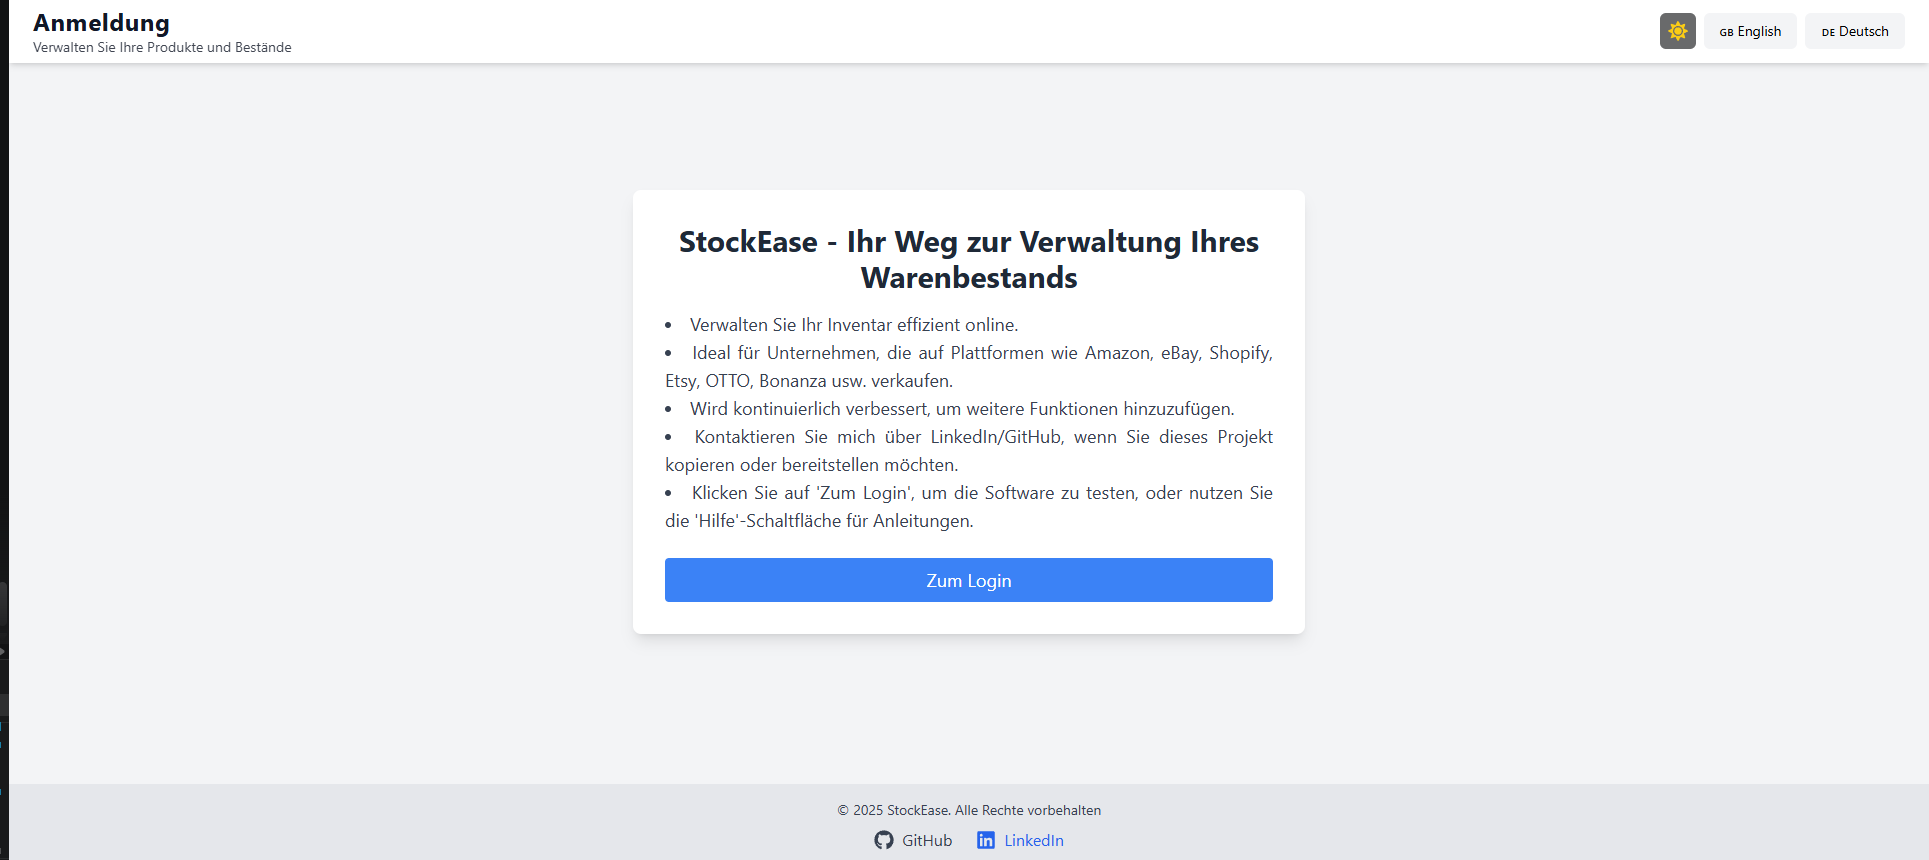
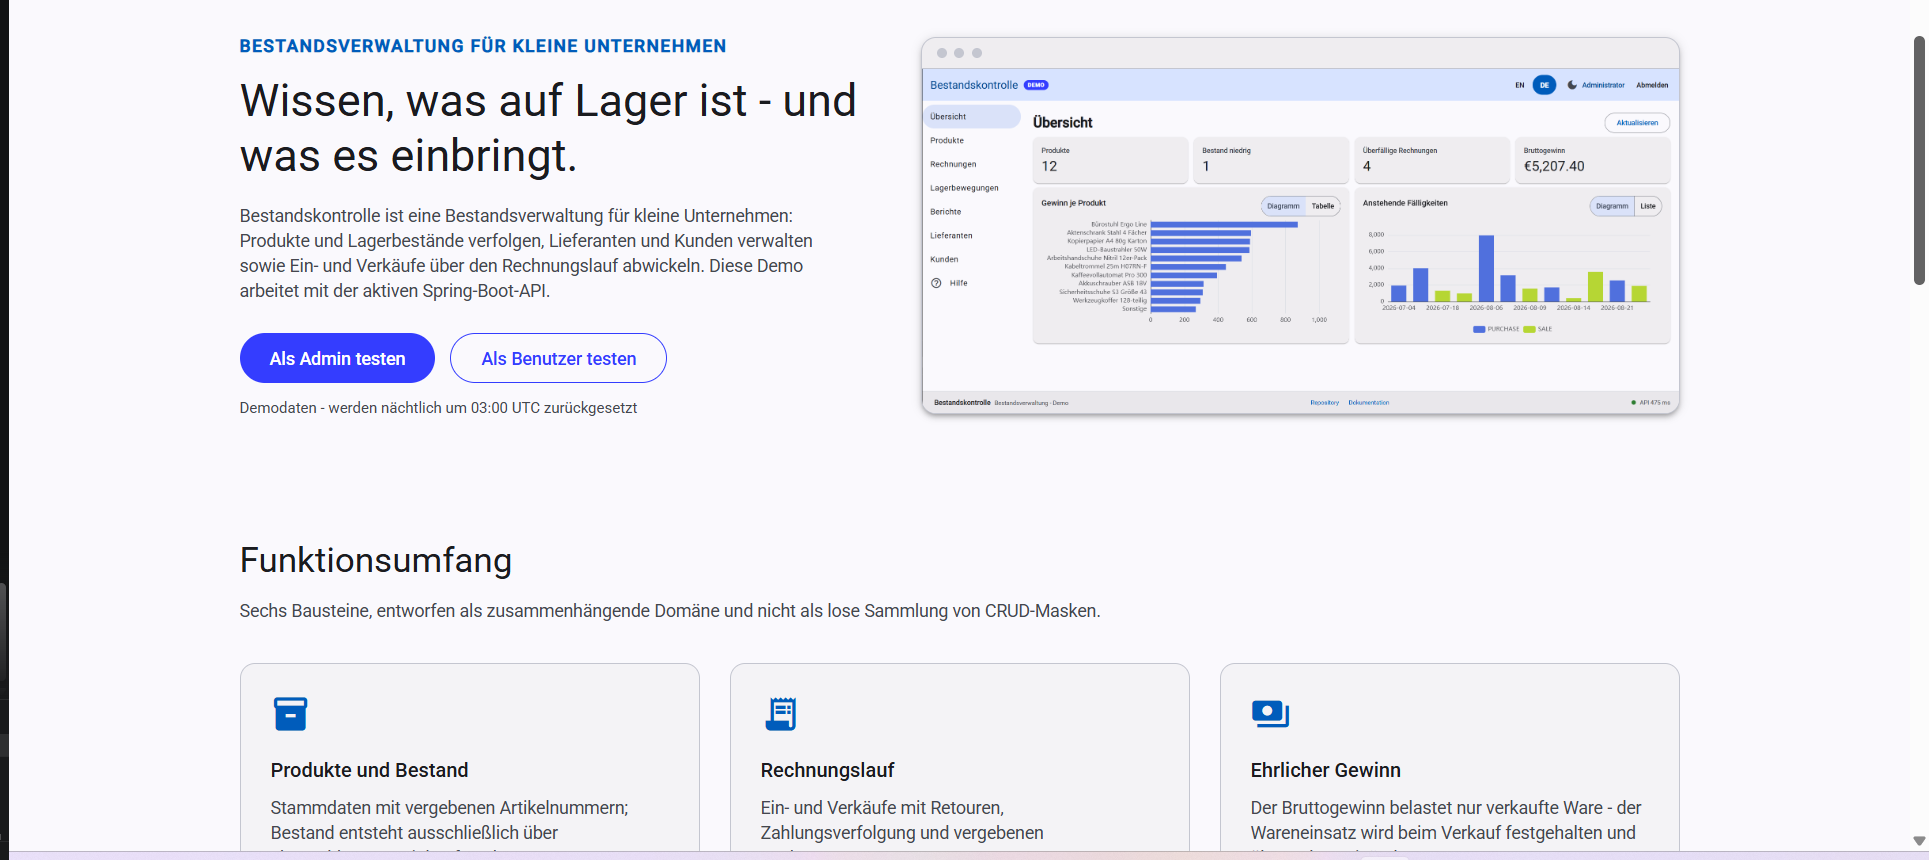
feat(projects): add KI-Maintenance Assistant card, rename Bestandskontrolle, restructure layout (#48)
* chore(build): declare Node 24 engine requirement

Adds an engines field pinning Node 24.x.

Vercel honours engines for its build runtime, and GitHub Actions already
pins Node 24 through .github/actions/node-setup. Declaring it here aligns
the Vercel build with CI -- both now build on the same major -- and clears
the Node 20 deprecation warning Vercel was emitting.

* feat(projects): replace StockEase card images, add Maintenance Assistant images

Overwrites the four StockEase preview images with captures of the renamed
Bestandskontrolle product, and adds four new images for the KI-Maintenance
Assistant card that the next commit introduces. Both sets carry all four
theme/language variants (dark/light x en/de).

Every file verified at 1929x860 -- the aspect ratio ProjectCard renders --
both in the source directory and again after copying into public/projects/.
The eight are the only changes here; the data entries that point at the new
maintenance-assistant-* paths and the corrected image set land in commit 3.

* feat(projects): update project data — new card, renamed product, corrected links

Three entries now, in a new order:

1. KI-Maintenance Assistant (NEW) -- a RAG assistant over a plant's own
   maintenance protocols. Java 21 / Spring Boot backend with pgvector,
   Angular 22 frontend, Keycloak IAM, EU-only inference via IONOS.
2. Bestandskontrolle (was StockEase) -- the product is renamed; the
   repository stays StockEase and the summaries say so, so the repo link
[…]

diff --git a/src/data/projects.config.js b/src/data/projects.config.js
@@ -35,6 +35,81 @@
 /** @type {ProjectConfig[]} */
 const projects = [
   {
+    slug: 'maintenance-assistant',
+    displayName: 'KI-Maintenance Assistant',
+    summaryEn:
+      'A retrieval-augmented (RAG) assistant that answers maintenance questions from a plant\'s own protocols. Every answer cites the source protocol, and answers without a grounded source are explicitly labelled. Role-filtered answers server-side, cross-language retrieval (a German question can cite an English protocol), and EU-only processing via the IONOS AI Model Hub in Berlin. Java 21 / Spring Boot backend with pgvector in PostgreSQL, Angular 22 frontend, Keycloak IAM, rendered end-to-end tests with Playwright.',
+    summaryDe:
+      'Ein Retrieval-Augmented-Generation-(RAG)-Assistent, der Wartungsfragen aus den Protokollen der eigenen Anlage beantwortet. Jede Antwort nennt das Quellprotokoll, und Antworten ohne belegte Quelle werden ausdrücklich gekennzeichnet. Serverseitig rollengefilterte Antworten, sprachübergreifende Suche (eine deutsche Frage kann ein englisches Protokoll zitieren) und ausschließlich EU-Verarbeitung über den IONOS AI Model Hub in Berlin. Java-21-/Spring-Boot-Backend mit pgvector in PostgreSQL, Angular-22-Frontend, Keycloak-IAM, gerenderte End-to-End-Tests mit Playwright.',
+    tech: [
+      'Java 21',
+      'Spring Boot 4',
+      'RAG / pgvector',
+      'IONOS AI (EU)',
+      'Keycloak / OAuth2 PKCE',
+      'PostgreSQL',
+      'Flyway',
+      'Angular 22',
+      'TypeScript',
+      'Playwright',
+      'Testcontainers',
+      'GitHub Actions',
+    ],
+    images: {
+      dark: { en: '/projects/maintenance-assistant-dark-en.png', de: '/projects/maintenance-assistant-dark-de.png' },
+      light: { en: '/projects/maintenance-assistant-light-en.png', de: '/projects/maintenance-assistant-light-de.png' },
+    },
+    repoUrl: 'https://github.com/Keglev/maintenance-assistant',
+    repoUrlSecondary: null,
+    liveUrl: 'https://maintenance.smartsupply.com.de/',
+    docsUrl: 'https://keglev.github.io/maintenance-assistant/',
+    apiUrl: 'https://maintenance.smartsupply.com.de/swagger-ui/index.html',
+    docLinks: [
+      { titleEn: 'Architecture (arc42)', titleDe: 'Architektur (arc42)', url: 'https://keglev.github.io/maintenance-assistant/architecture/' },
+      { titleEn: 'Decision records (ADRs)', titleDe: 'Entscheidungsdokumente (ADRs)', url: 'https://keglev.github.io/maintenance-assistant/adr/' },
+      { titleEn: 'Frontend API reference', titleDe: 'Frontend-API-Referenz', url: 'https://keglev.github.io/maintenance-assistant/frontend/api-docs/index.html' },
+    ],
+    featured: true,
+  },
+  {
+    slug: 'stockease',
+    displayName: 'Bestandskontrolle',
+    summaryEn:
+      'Full merchandise-cycle inventory management for small businesses (repository: StockEase): products, suppliers and customers, purchase and sales invoices, an append-only stock-movement ledger, audit trail and reporting with CSV export. A modular monolith (Spring Modulith) whose module boundaries are verified on every build; stock is booked event-driven inside the invoice-closing transaction, so an overselling close rolls back entirely. Angular 22 frontend, bilingual EN/DE at runtime; 619 backend tests against real PostgreSQL via Testcontainers, 916 frontend tests at 99% statement coverage.',
+    summaryDe:
+      'Bestandsverwaltung über den vollständigen Warenzyklus für kleine Unternehmen (Repository: StockEase): Produkte, Lieferanten und Kunden, Ein- und Verkaufsrechnungen, ein Append-only-Lagerbewegungsjournal, Änderungshistorie und Berichte mit CSV-Export. Ein modularer Monolith (Spring Modulith), dessen Modulgrenzen bei jedem Build geprüft werden; Lagerbewegungen werden ereignisgesteuert innerhalb der Rechnungsabschluss-Transaktion gebucht — ein Abschluss über Bestand rollt vollständig zurück. Angular-22-Frontend, zweisprachig DE/EN zur Laufzeit; 619 Backend-Tests gegen echtes PostgreSQL via Testcontainers, 916 Frontend-Tests mit 99 % Statement-Coverage.',
+    tech: [
+      'Java 21',
+      'Spring Boot 4',
+      'Spring Modulith',
+      'Spring Security / JWT',
+      'PostgreSQL',
+      'Flyway',
+      'Testcontainers',
+      'Angular 22',
+      'TypeScript',
+      'Angular Material',
+      'Vitest',
+      'Docker',
+      'GitHub Actions',
+    ],
+    images: {
+      dark: { en: '/projects/stockease-dark-en.png', de: '/projects/stockease-dark-de.png' },
+      light: { en: '/projects/stockease-light-en.png', de: '/projects/stockease-light-de.png' },
+    },
+    repoUrl: 'https://github.com/Keglev/stockease',
+    repoUrlSecondary: null,
+    liveUrl: 'https://bestandskontrolle.vercel.app/',
+    docsUrl: 'https://keglev.github.io/stockease/',
+    apiUrl: 'https://keglev.github.io/stockease/backend/api/index.html',
+    docLinks: [
+      { titleEn: 'Architecture (arc42)', titleDe: 'Architektur (arc42)', url: 'https://keglev.github.io/stockease/backend/architecture/overview.html' },
+      { titleEn: 'Decision records (39 ADRs)', titleDe: 'Entscheidungsdokumente (39 ADRs)', url: 'https://keglev.github.io/stockease/decisions/index.html' },
+      { titleEn: 'Frontend API reference', titleDe: 'Frontend-API-Referenz', url: 'https://keglev.github.io/stockease/frontend/api/index.html' },
+    ],
+    featured: true,
+  },
+  {
     slug: 'smartsupplypro',
     displayName: 'SmartSupplyPro',
     summaryEn:
@@ -65,44 +140,8 @@ const projects = [
     docsUrl: 'https://keglev.github.io/inventory-service/',
     apiUrl: 'https://keglev.github.io/inventory-service/backend/api/index.html',
     docLinks: [
-      { titleEn: 'Architecture overview', titleDe: 'Architektur-Überblick', url: 'https://keglev.github.io/inventory-service/backend/architecture/overview.html' },
+      { titleEn: 'Architecture (arc42)', titleDe: 'Architektur (arc42)', url: 'https://keglev.github.io/inventory-service/backend/architecture/overview.html' },
       { titleEn: 'Backend test coverage', titleDe: 'Backend-Testabdeckung', url: 'https://keglev.github.io/inventory-service/backend/coverage/index.html' },
-    ],
-    featured: true,
-  },
-  {
-    slug: 'stockease',
-    displayName: 'StockEase',
-    summaryEn:
-      'A full-stack inventory management tool for SMEs: a JWT-secured Spring Boot CRUD backend with PostgreSQL, inventory and supplier views, and CSV export for BI tools (Power BI, Tableau), paired with a React + TypeScript frontend. Serves as my reference project for documentation and test-coverage standards.',
-    summaryDe:
-      'Ein Full-Stack-Bestandsmanagement-Tool für KMU: ein JWT-gesichertes Spring-Boot-CRUD-Backend mit PostgreSQL, Bestands- und Lieferantenanzeige sowie CSV-Export für BI-Tools (Power BI, Tableau), kombiniert mit einem React-+-TypeScript-Frontend. Dient als mein Referenzprojekt für Dokumentations- und Testabdeckungsstandards.',
-    tech: [
-      'Java',
-      'Spring Boot',
-      'Spring Security',
-      'JWT',
-      'PostgreSQL',
-      'Hibernate / JPA',
-      'Maven',
-      'React',
-      'TypeScript',
-      'Tailwind CSS',
-      'Vite',
-    ],
-    images: {
-      dark: { en: '/projects/stockease-dark-en.png', de: '/projects/stockease-dark-de.png' },
-      light: { en: '/projects/stockease-light-en.png', de: '/projects/stockease-light-de.png' },
-    },
-    repoUrl: 'https://github.com/Keglev/stockease',
-    repoUrlSecondary: 'https://github.com/Keglev/frontend',
-    liveUrl: 'https://stockeasefrontend.vercel.app',
-    docsUrl: 'https://keglev.github.io/stockease/',
-    apiUrl: 'https://keglev.github.io/stockease/api-docs.html',
-    docLinks: [
-      { titleEn: 'Architecture & security', titleDe: 'Architektur & Sicherheit', url: 'https://keglev.github.io/stockease/architecture/security.html' },
-      { titleEn: 'Test coverage', titleDe: 'Testabdeckung', url: 'https://keglev.github.io/stockease/coverage/index.html' },
-      { titleEn: 'Frontend documentation', titleDe: 'Frontend-Dokumentation', url: 'https://keglev.github.io/frontend/' },
     ],
     featured: true,
   },

diff --git a/src/components/Projects/Projects.css b/src/components/Projects/Projects.css
@@ -28,6 +28,20 @@
   gap: 2rem;
 }
 
+/* --- Two-plus-one layout (Projects section only; Legal keeps the base grid) ---
+   Desktop: two equal columns; the last card spans both columns and is
+   centered at single-column width. Collapses with the existing mobile
+   media query, which already forces one column. */
+.project-grid--two-plus-one {
+  grid-template-columns: repeat(2, minmax(300px, 1fr));
+}
+
+.project-grid--two-plus-one .project-card:last-child {
+  grid-column: 1 / -1;
+  width: calc(50% - 1rem); /* one column width: half the grid minus half the 2rem gap */
+  justify-self: center;
+}
+
 /* --- Card --- */
 
 /* Cards render hidden and slightly offset; .visible class triggers the entrance transition */
@@ -143,6 +157,14 @@
 @media (max-width: 768px) {
   .project-grid {
     grid-template-columns: 1fr;
+  }
+
+  .project-grid--two-plus-one {
+    grid-template-columns: 1fr;
+  }
+
+  .project-grid--two-plus-one .project-card:last-child {
+    width: 100%;
   }
 }
 

diff --git a/src/components/Projects/Projects.jsx b/src/components/Projects/Projects.jsx
@@ -9,6 +9,10 @@
  * Below the grid, a small "portfolio meta" strip links to this site's own
  * source, docs, and coverage report -- proof the same documentation and
  * testing standard applies to itself.
+ *
+ * The grid carries a `project-grid--two-plus-one` modifier so the section's
+ * three cards lay out as two columns with the last card centered below them;
+ * the base `.project-grid` class (shared with Legal) is left unmodified.
  */
 import React, { useState } from 'react';
 import { useTranslation } from 'react-i18next';
@@ -26,7 +30,7 @@ const Projects = () => {
   return (
     <section className="project-container" id="Projects">
       <h2>{t('projects', 'Projects')}</h2>
-      <div className="project-grid">
+      <div className="project-grid project-grid--two-plus-one">
         {projects.map((project, idx) => (
           <ProjectCard
             key={project.slug || idx}
